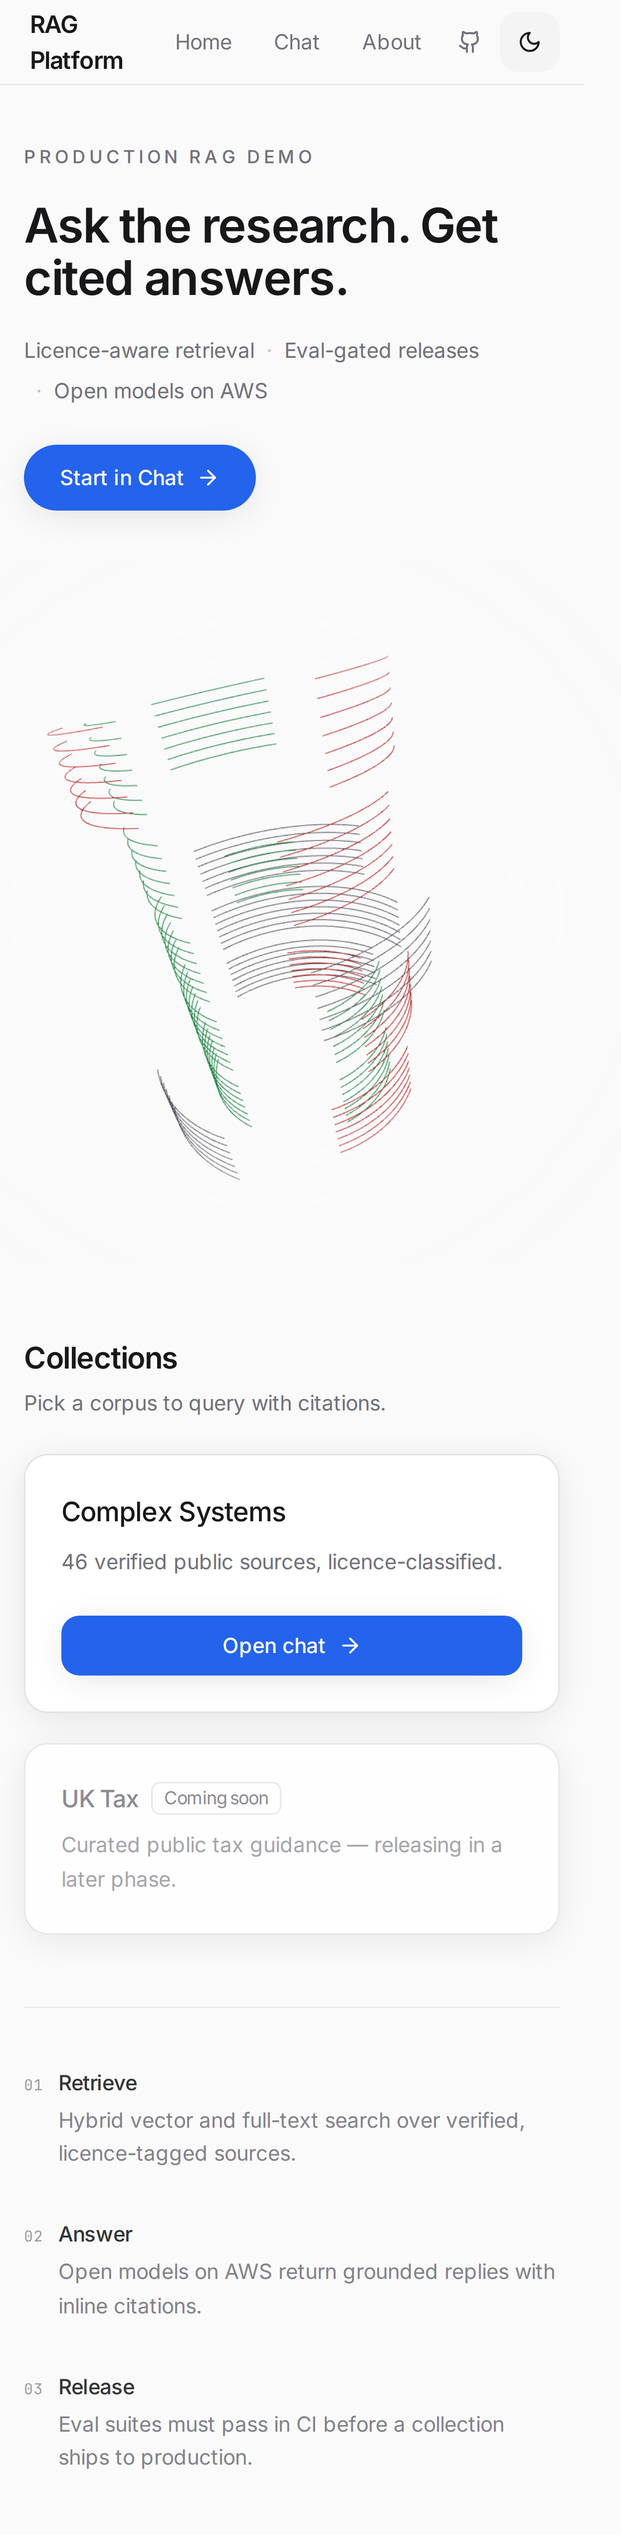
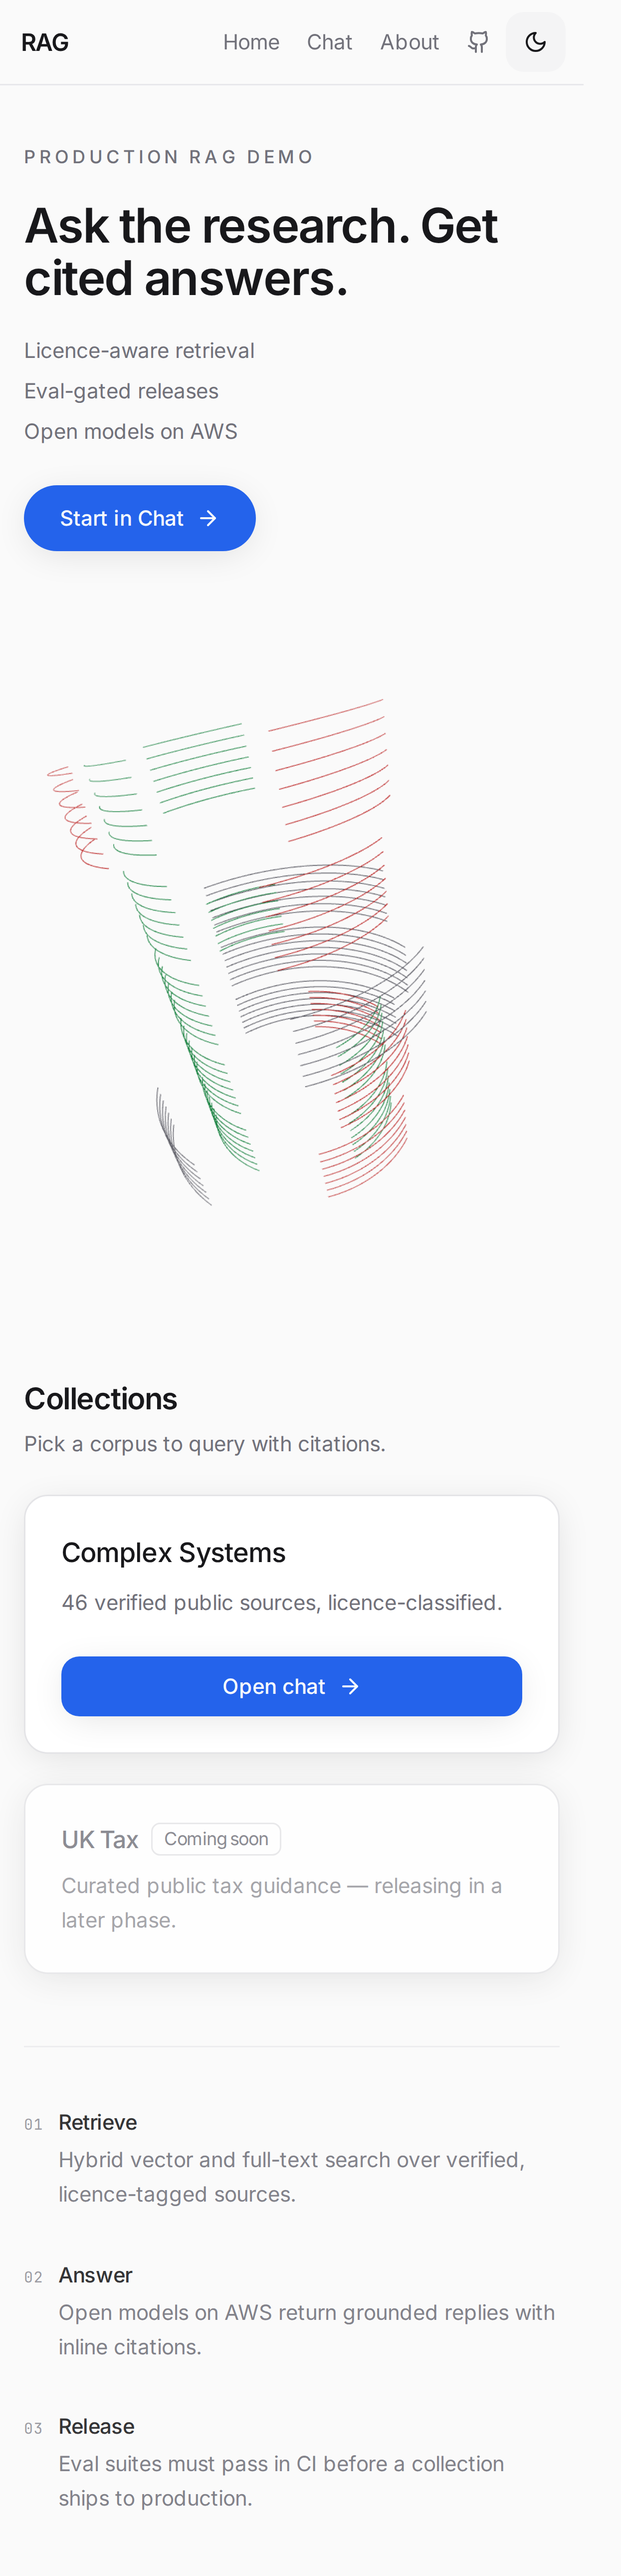
Fix mobile nav/subline and transparent hero canvas edges
Shorten header title to RAG below sm with tighter nav padding; stack
subline parts on mobile without dot prefixes; use alpha-cleared WebGL
and a stronger radial mask so the cylinder has no visible frame.

diff --git a/web/src/components/home/cylinder/mountHero.ts b/web/src/components/home/cylinder/mountHero.ts
@@ -1,7 +1,6 @@
 import {
   AmbientLight,
   BufferGeometry,
-  Color,
   DirectionalLight,
   Float32BufferAttribute,
   Group,
@@ -23,13 +22,7 @@ import {
   createCylinderArcs,
   type CylinderArc,
 } from "./cylinder";
-import {
-  fallbackBackground,
-  lineColorForArc,
-  sceneBackground,
-  strokeForArc,
-  type HeroTheme,
-} from "./themePalette";
+import { lineColorForArc, strokeForArc, type HeroTheme } from "./themePalette";
 
 const SVG_NS = "http://www.w3.org/2000/svg";
 
@@ -66,11 +59,8 @@ export function mountHero(root: HTMLElement, theme: HeroTheme): () => void {
 
   const applyTheme = () => {
     if (!scene || !renderer) return;
-    const bg = sceneBackground(theme);
-    scene.background = new Color(bg);
-    renderer.setClearColor(bg, 1);
-    const canvas = renderer.domElement;
-    canvas.style.background = "transparent";
+    scene.background = null;
+    renderer.setClearColor(0x000000, 0);
     for (const binding of bindings) {
       binding.material.color.setHex(lineColorForArc(theme, binding.arcColor));
     }
@@ -176,7 +166,7 @@ export function mountHero(root: HTMLElement, theme: HeroTheme): () => void {
   try {
     created = new WebGLRenderer({
       antialias: true,
-      alpha: false,
+      alpha: true,
       powerPreference: "high-performance",
     });
     if (!created.getContext()) throw new Error("WebGL context unavailable");
@@ -192,8 +182,7 @@ export function mountHero(root: HTMLElement, theme: HeroTheme): () => void {
 
   try {
     scene = new Scene();
-    const bg = sceneBackground(theme);
-    scene.background = new Color(bg);
+    scene.background = null;
     camera = new PerspectiveCamera(CAMERA_FOV, 1, CAMERA_NEAR, CAMERA_FAR);
     camera.position.set(0, 0, CAMERA_Z);
 
@@ -204,12 +193,14 @@ export function mountHero(root: HTMLElement, theme: HeroTheme): () => void {
     addLights(scene);
     addArcs(container, createCylinderArcs(), theme, geometries, materials, bindings, spinners);
 
-    renderer.setClearColor(bg, 1);
+    renderer.setClearColor(0x000000, 0);
     const canvas = renderer.domElement;
     canvas.style.width = "100%";
     canvas.style.height = "100%";
     canvas.style.display = "block";
     canvas.style.background = "transparent";
+    canvas.style.border = "none";
+    canvas.style.outline = "none";
     root.replaceChildren(canvas);
     resize();
 
@@ -338,12 +329,6 @@ export function buildFallbackSvg(theme: HeroTheme): SVGSVGElement {
   svg.setAttribute("preserveAspectRatio", "xMidYMid meet");
   svg.setAttribute("aria-hidden", "true");
   svg.setAttribute("class", "hero-cylinder-fallback");
-
-  const background = document.createElementNS(SVG_NS, "rect");
-  background.setAttribute("width", String(size));
-  background.setAttribute("height", String(size));
-  background.setAttribute("fill", fallbackBackground(theme));
-  svg.append(background);
 
   for (const arc of createCylinderArcs()) {
     const points = arc.points

diff --git a/web/src/components/Shell.tsx b/web/src/components/Shell.tsx
@@ -14,32 +14,36 @@ export function Shell() {
       <header className="sticky top-0 z-30 border-b border-border/80 bg-background/90 backdrop-blur-md">
         <div
           className={cn(
-            "mx-auto flex h-14 items-center justify-between gap-4 px-4 sm:px-6",
+            "mx-auto flex h-14 min-w-0 items-center justify-between gap-2 px-3 sm:gap-4 sm:px-6",
             isHome ? "max-w-7xl" : "max-w-6xl",
           )}
         >
           <Link
             to="/"
-            className="rounded-lg px-1 font-semibold tracking-tight text-foreground focus-visible:ring-2 focus-visible:ring-ring"
+            className="shrink-0 rounded-lg px-0.5 font-semibold tracking-tight text-foreground focus-visible:ring-2 focus-visible:ring-ring sm:px-1"
           >
-            RAG Platform
+            <span className="whitespace-nowrap sm:hidden">
+              <span aria-hidden="true">RAG</span>
+              <span className="sr-only">RAG Platform</span>
+            </span>
+            <span className="hidden whitespace-nowrap sm:inline">RAG Platform</span>
           </Link>
-          <nav className="flex items-center gap-1 text-sm">
+          <nav className="flex shrink-0 items-center gap-0.5 text-sm sm:gap-1">
             <Link
               to="/"
-              className="rounded-lg px-3 py-2 text-muted-foreground hover:text-foreground hover:bg-muted focus-visible:ring-2 focus-visible:ring-ring"
+              className="rounded-lg px-2 py-2 text-muted-foreground hover:text-foreground hover:bg-muted focus-visible:ring-2 focus-visible:ring-ring sm:px-3"
             >
               Home
             </Link>
             <Link
               to="/chat/complex-systems"
-              className="rounded-lg px-3 py-2 text-muted-foreground hover:text-foreground hover:bg-muted focus-visible:ring-2 focus-visible:ring-ring"
+              className="rounded-lg px-2 py-2 text-muted-foreground hover:text-foreground hover:bg-muted focus-visible:ring-2 focus-visible:ring-ring sm:px-3"
             >
               Chat
             </Link>
             <Link
               to="/about"
-              className="rounded-lg px-3 py-2 text-muted-foreground hover:text-foreground hover:bg-muted focus-visible:ring-2 focus-visible:ring-ring"
+              className="rounded-lg px-2 py-2 text-muted-foreground hover:text-foreground hover:bg-muted focus-visible:ring-2 focus-visible:ring-ring sm:px-3"
             >
               About
             </Link>

diff --git a/web/src/home.css b/web/src/home.css
@@ -19,15 +19,17 @@
 }
 
 .home-subline {
-  @apply flex max-w-full flex-wrap items-center gap-y-1 text-sm leading-relaxed text-muted-foreground sm:text-[0.9375rem] lg:flex-nowrap lg:gap-x-0 lg:text-base;
+  @apply flex max-w-full flex-col gap-1 text-sm leading-relaxed text-muted-foreground sm:text-[0.9375rem] lg:flex-row lg:flex-nowrap lg:gap-x-0 lg:text-base;
 }
 
 .home-subline-part {
-  @apply inline-flex shrink-0 items-center;
+  @apply block shrink-0;
 }
 
-.home-subline-part:not(:first-child)::before {
-  @apply mx-2 text-muted-foreground/45 content-['·'] lg:mx-2.5;
+@media (min-width: 1024px) {
+  .home-subline-part:not(:first-child)::before {
+    @apply mx-2.5 text-muted-foreground/45 content-['·'];
+  }
 }
 
 .home-hero-cta {
@@ -40,32 +42,37 @@
 }
 
 .hero-cylinder-root {
-  @apply aspect-square w-[min(132%,34rem)] max-w-none shrink-0 bg-transparent;
+  @apply aspect-square w-[min(132%,34rem)] max-w-none shrink-0 overflow-visible border-0 bg-transparent shadow-none;
   min-height: min(92vw, 34rem);
   margin-inline: auto;
   -webkit-mask-image: radial-gradient(
-    ellipse 74% 74% at 50% 50%,
-    #000 42%,
-    rgb(0 0 0 / 0.55) 62%,
-    transparent 86%
+    ellipse 82% 82% at 50% 50%,
+    #000 32%,
+    rgb(0 0 0 / 0.65) 52%,
+    rgb(0 0 0 / 0.2) 68%,
+    transparent 76%
   );
   mask-image: radial-gradient(
-    ellipse 74% 74% at 50% 50%,
-    #000 42%,
-    rgb(0 0 0 / 0.55) 62%,
-    transparent 86%
+    ellipse 82% 82% at 50% 50%,
+    #000 32%,
+    rgb(0 0 0 / 0.65) 52%,
+    rgb(0 0 0 / 0.2) 68%,
+    transparent 76%
   );
+  -webkit-mask-repeat: no-repeat;
+  mask-repeat: no-repeat;
+  -webkit-mask-size: 100% 100%;
+  mask-size: 100% 100%;
 }
 
 .hero-cylinder-root--placeholder {
-  @apply animate-pulse opacity-40;
-  background: radial-gradient(circle at 50% 50%, hsl(var(--muted) / 0.35), transparent 70%);
+  @apply animate-pulse opacity-30;
+  background: transparent;
 }
 
 .hero-cylinder-root[data-state="fallback"] .hero-cylinder-fallback,
 .hero-cylinder-root canvas {
-  @apply h-full w-full;
-  background: transparent !important;
+  @apply block h-full w-full border-0 bg-transparent shadow-none outline-none;
 }
 
 .home-collections {
